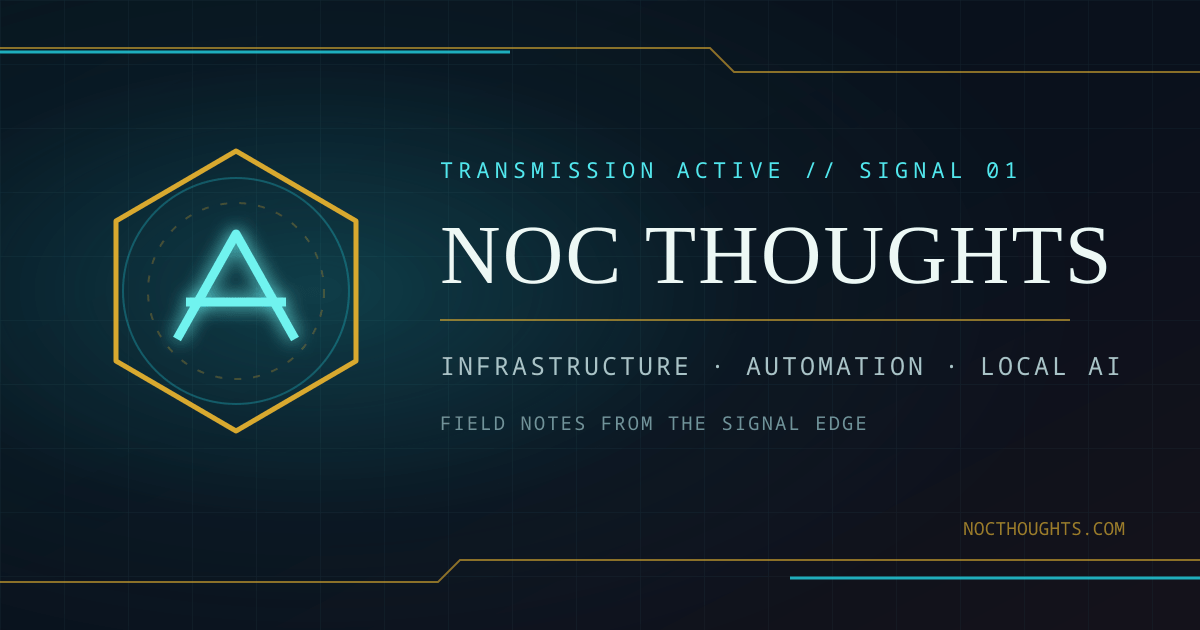
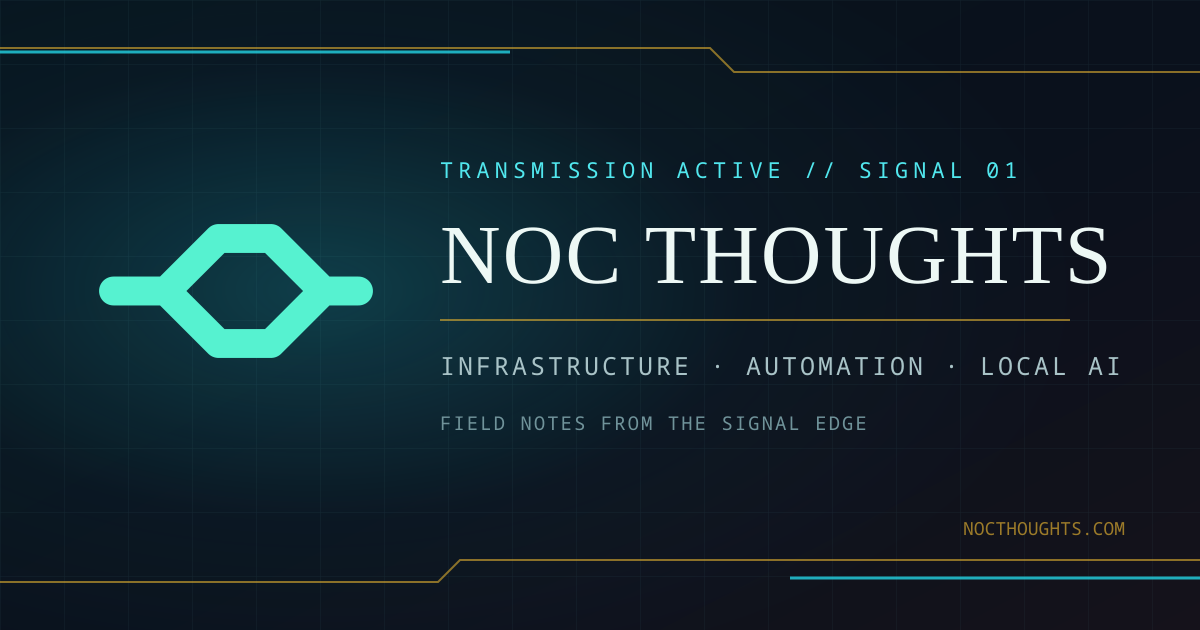
Adopt palette-aware Trace Relay branding

Changed region(s): [[0.0617, 0.2413, 0.3083, 0.6937], [0.2467, 0.3016, 0.2775, 0.3317], [0.1233, 0.6032, 0.1542, 0.6333]]

diff --git a/public/assets/site-header.css b/public/assets/site-header.css
@@ -57,7 +57,7 @@
   display: inline-flex; align-items: center; gap: 10px;
   color: inherit; text-decoration: none; white-space: nowrap; margin-right: auto;
 }
-.noc-home svg { width: 36px; height: 36px; fill: none; stroke: var(--noc-accent); stroke-width: 1.6; }
+.noc-home svg { width: 36px; height: 36px; fill: none; stroke: var(--noc-accent); stroke-width: 1.65; stroke-linecap: round; stroke-linejoin: round; }
 .noc-home strong { display: block; color: inherit; font: 700 19px/1 "Helvetica Neue",Arial,sans-serif; letter-spacing: -.04em; text-transform: uppercase; }
 .noc-home small { display: block; margin-top: 5px; color: var(--noc-muted); font: 9px/1.2 Consolas,monospace; letter-spacing: .1em; }
 .noc-bar nav { display: flex; align-items: center; gap: clamp(12px,1.7vw,26px); }

diff --git a/src/experiments/fold-register.html b/src/experiments/fold-register.html
@@ -4,6 +4,7 @@
 <link rel="canonical" href="https://nocthoughts.com/experiments/fold-register.html">
 <link rel="stylesheet" href="/assets/site-header.css">
 <link rel="stylesheet" href="/assets/experiment-theme.css">
+<link rel="icon" href="/favicon.svg?v=3" type="image/svg+xml" sizes="any" data-site-icon />
 <script src="/assets/site-theme.js"></script>
 <style>
 :root{--paper:var(--noc-surface);--ink:var(--noc-text);--soft:var(--noc-muted);--line:var(--experiment-line);--hot:var(--noc-accent);--mono:"IBM Plex Mono",ui-monospace,monospace;--sans:"Instrument Sans",Inter,"Helvetica Neue",Arial,sans-serif}

diff --git a/src/experiments/kestrel-sound.html b/src/experiments/kestrel-sound.html
@@ -5,6 +5,7 @@
 <meta name="theme-color" content="#101d20"><title>Kestrel Sound — Echo Sounder</title>
 <link rel="stylesheet" href="/assets/site-header.css">
 <link rel="stylesheet" href="/assets/experiment-theme.css">
+<link rel="icon" href="/favicon.svg?v=3" type="image/svg+xml" sizes="any" data-site-icon />
 <script src="/assets/site-theme.js"></script>
 <style>
 :root{--ink:var(--noc-surface);--line:var(--experiment-line);--foam:var(--noc-text);--muted:var(--noc-muted);--signal:var(--noc-accent);--paper:var(--experiment-raised);--mono:"IBM Plex Mono",ui-monospace,monospace}

diff --git a/src/components/site-header.html b/src/components/site-header.html
@@ -1,7 +1,7 @@
 <header class="noc-bar">
   <div class="noc-bar-inner">
     <a class="noc-home" href="/" aria-label="NOC Thoughts home">
-      <svg viewBox="0 0 48 48" aria-hidden="true"><path d="M24 3 42 14v20L24 45 6 34V14L24 3Z M16 30l8-14 8 14 M17 25h14"/></svg>
+      <svg viewBox="0 0 16 16" aria-hidden="true"><path d="M1 8h3l3-3h3l3 3h2M4 8l3 3h3l3-3"/></svg>
       <span><strong>NOC Thoughts</strong><small>FIELD NOTES // SIGNAL 01</small></span>
     </a>
     <button class="noc-menu" type="button" hidden aria-expanded="false" aria-controls="noc-nav">Menu</button>

diff --git a/public/assets/site-theme.js b/public/assets/site-theme.js
@@ -25,6 +25,8 @@
     const key = Object.hasOwn(themes, value) ? value : "aftertone-dark";
     const changed = root.dataset.theme !== key;
     root.dataset.theme = key;
+    const icon = document.querySelector("link[data-site-icon]");
+    if (icon) icon.href = key === "aftertone-dark" ? "/favicon.svg?v=3" : "/assets/trace-relay/" + key + ".svg";
     document.querySelector('meta[name="theme-color"]')?.setAttribute("content", themes[key].color);
     const picker = document.getElementById("site-theme");
     if (picker) picker.value = key;

diff --git a/src/experiments/aftertone.html b/src/experiments/aftertone.html
@@ -11,7 +11,8 @@
     <title>Aftertone — NOC Thoughts</title>
     <link rel="stylesheet" href="/assets/site-header.css" />
 <link rel="stylesheet" href="/assets/experiment-theme.css">
-    <script src="/assets/site-theme.js"></script>
+    <link rel="icon" href="/favicon.svg?v=3" type="image/svg+xml" sizes="any" data-site-icon />
+<script src="/assets/site-theme.js"></script>
     <style>
       :root {
         color-scheme: light;

diff --git a/src/experiments/observatory.html b/src/experiments/observatory.html
@@ -8,6 +8,7 @@
 <title>Local LLM Observatory · NOC Thoughts</title>
 <link rel="stylesheet" href="/assets/site-header.css">
 <link rel="stylesheet" href="/assets/experiment-theme.css">
+<link rel="icon" href="/favicon.svg?v=3" type="image/svg+xml" sizes="any" data-site-icon />
 <script src="/assets/site-theme.js"></script>
 <style>
   :root {
